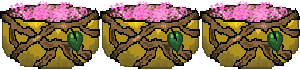
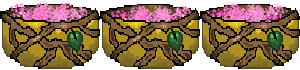
körbchen anim
speed 0.2f & new pics

Changed region(s): [[0.69, 0.0, 0.99, 0.3143], [0.36, 0.0, 0.66, 0.3143], [0.03, 0.0, 0.33, 0.3143]]

diff --git a/core/src/at/aau/game/Mechanics/Entities/Koerbchen.java b/core/src/at/aau/game/Mechanics/Entities/Koerbchen.java
@@ -16,7 +16,7 @@ public class Koerbchen extends SkeletonControlledObject {
 
     public Koerbchen(Vector2 position, World world) {
         super(position, world, SIZE);
-        this.idleAnimation = world.gameplayScreen.parentGame.getAnimator().loadAnimation(GameConstants.PLAYER_SPRITE_PATH, 0.3f, 100, 70);
+        this.idleAnimation = world.gameplayScreen.parentGame.getAnimator().loadAnimation(GameConstants.PLAYER_SPRITE_PATH, 0.2f, 100, 70);
         this.movingUpAnimation = world.gameplayScreen.parentGame.getAnimator().loadAnimation("gameplay/koerbchen_up.png", 0.3f, 100, 70);
         this.movingDownAnimation = world.gameplayScreen.parentGame.getAnimator().loadAnimation("gameplay/koerbchen_down.png", 0.3f, 100, 70);
         this.movingLeftAnimation = world.gameplayScreen.parentGame.getAnimator().loadAnimation("gameplay/koerbchen_left.png", 0.3f, 100, 70);
